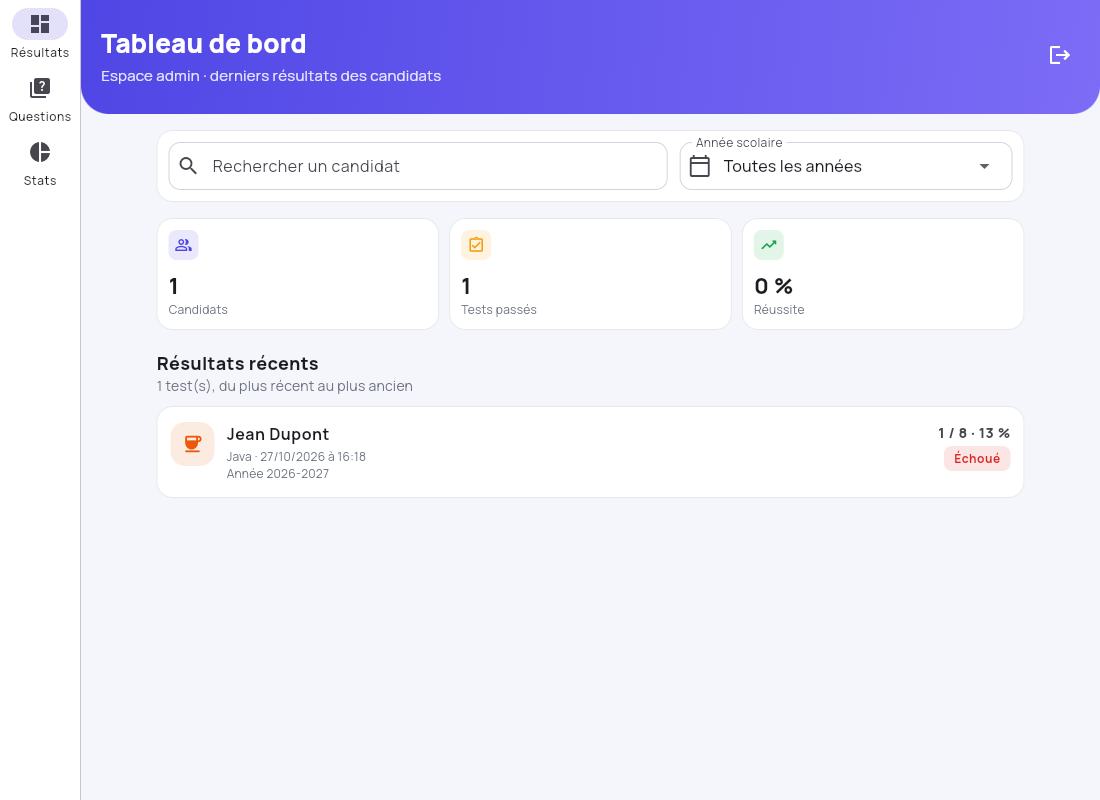
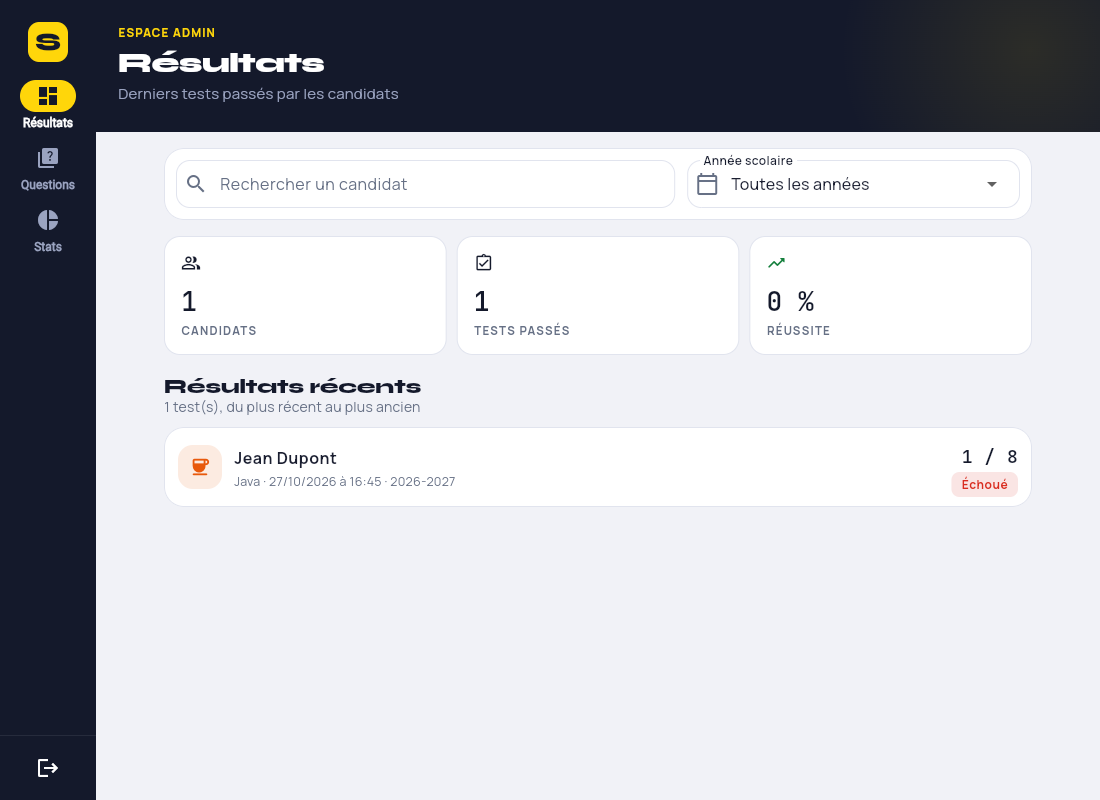
feat: retouches (colonne inscription, halo), captures et README de la nouvelle identité
Claude-Session: https://claude.ai/code/session_01FSrFhdctKurXTwJTUG76AM

diff --git a/lib/widgets/gradient_header.dart b/lib/widgets/gradient_header.dart
@@ -61,16 +61,16 @@ class InkHeader extends StatelessWidget {
           children: [
             // Halo jaune discret, décoratif, dans le coin supérieur droit.
             Positioned(
-              right: -60,
-              top: -80,
+              right: -120,
+              top: -140,
               child: Container(
-                width: 260,
-                height: 260,
+                width: 380,
+                height: 380,
                 decoration: BoxDecoration(
                   shape: BoxShape.circle,
                   gradient: RadialGradient(
                     colors: [
-                      AppColors.accent.withValues(alpha: 0.22),
+                      AppColors.accent.withValues(alpha: 0.10),
                       AppColors.accent.withValues(alpha: 0.0),
                     ],
                   ),

diff --git a/lib/screens/auth/register_screen.dart b/lib/screens/auth/register_screen.dart
@@ -427,7 +427,9 @@ class _InkColumn extends StatelessWidget {
                 padding: EdgeInsets.only(left: 8),
                 child: AppWordmark(onDark: true, size: 40),
               ),
-              const Spacer(),
+              // La liste des étapes suit directement le logo : pas de grand
+              // vide, le panneau reste lisible même sur un écran bas.
+              const SizedBox(height: 48),
               Padding(
                 padding: const EdgeInsets.only(left: 8),
                 child: Text(

diff --git a/README.md b/README.md
@@ -61,7 +61,10 @@ Sur le web, SQLite tourne en WebAssembly : les fichiers `web/sqflite_sw.js` et
 - **provider** pour partager la base, les repositories et l'utilisateur connecté (`AuthState`).
 - **fl_chart** pour les camemberts, **crypto** pour le hachage SHA-256 des mots de passe.
 - **flutter_animate** (animations d'apparition), **percent_indicator** (score circulaire),
-  police **Manrope** embarquée dans `assets/fonts/` (licence OFL).
+  **flutter_launcher_icons** (icône Android).
+- Identité visuelle « encre et signal » : panneaux bleu nuit, un seul accent jaune, titres en
+  **Syne**, chiffres en **JetBrains Mono**, texte en **Manrope** (polices embarquées dans
+  `assets/fonts/`, licence OFL). Palette et thème dans `lib/theme/`.
 
 ```
 lib/
@@ -78,9 +81,9 @@ lib/
 │   └── question_json.dart    analyse / validation / export du JSON de questions
 ├── models/                   Discipline, Motivation, AppUser, Question, TestResult
 ├── state/auth_state.dart     utilisateur connecté (ChangeNotifier)
-├── theme/                    palette (AppColors) et thème Material 3 (buildAppTheme)
-├── widgets/                  composants partagés : GradientHeader, DisciplineAvatar,
-│                             StatusChip, EmptyState, SectionTitle
+├── theme/                    palette (AppColors), styles de titres (AppText), thème (buildAppTheme)
+├── widgets/                  composants partagés : InkHeader, AppWordmark, ChoiceLetter, StatTile,
+│                             TerminalCard, DisciplineAvatar, StatusChip, EmptyState, SectionTitle
 └── screens/
     ├── auth/                 connexion, inscription
     ├── candidate/            accueil, test chronométré, résultat, profil
